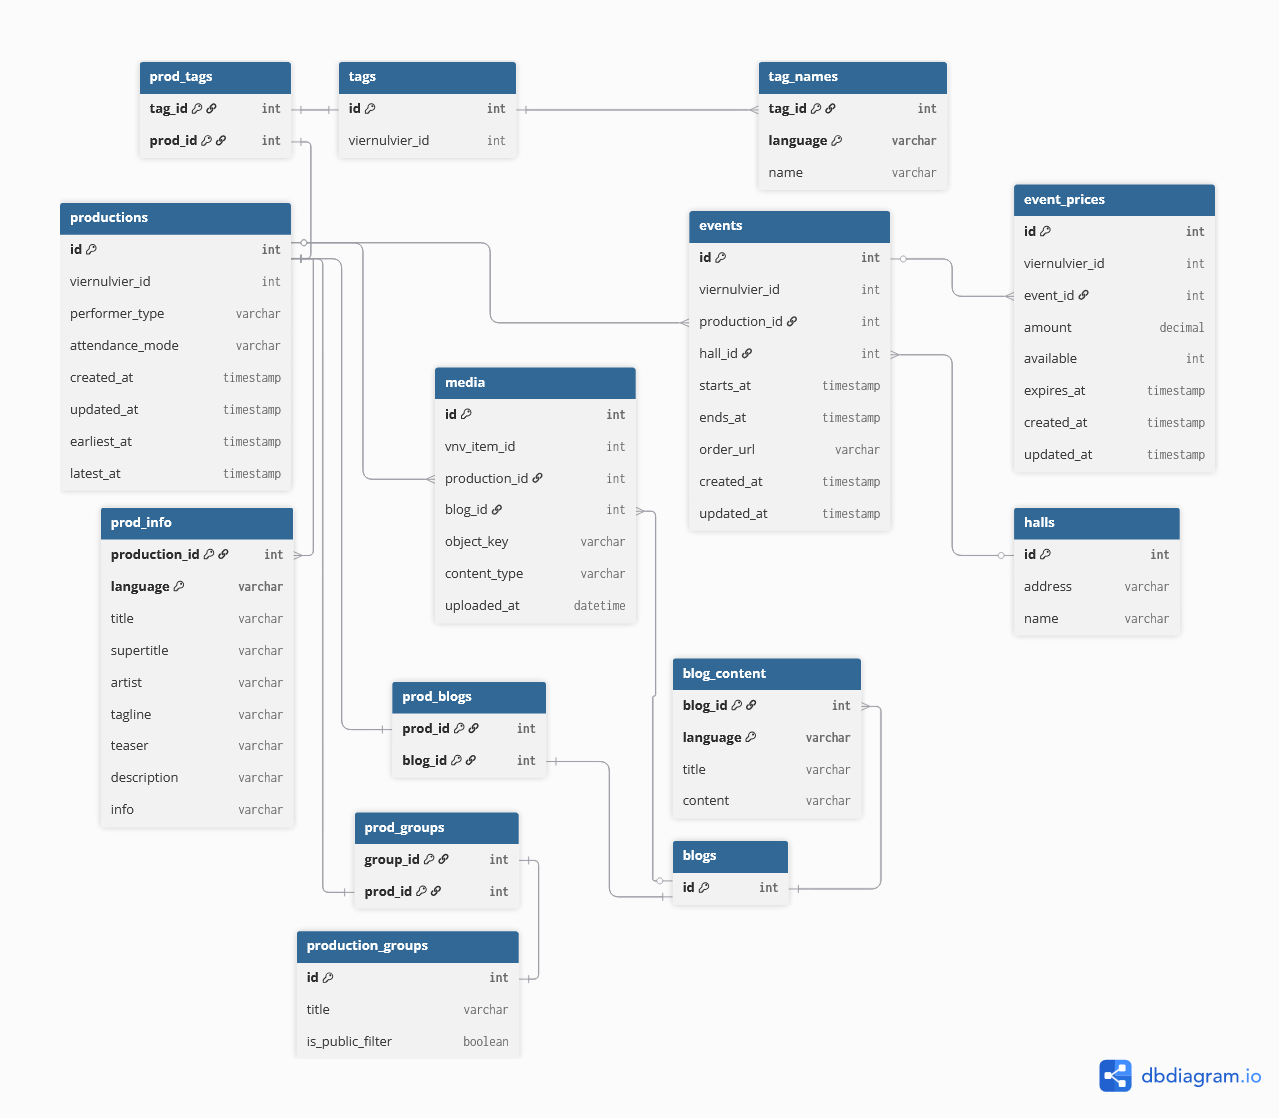
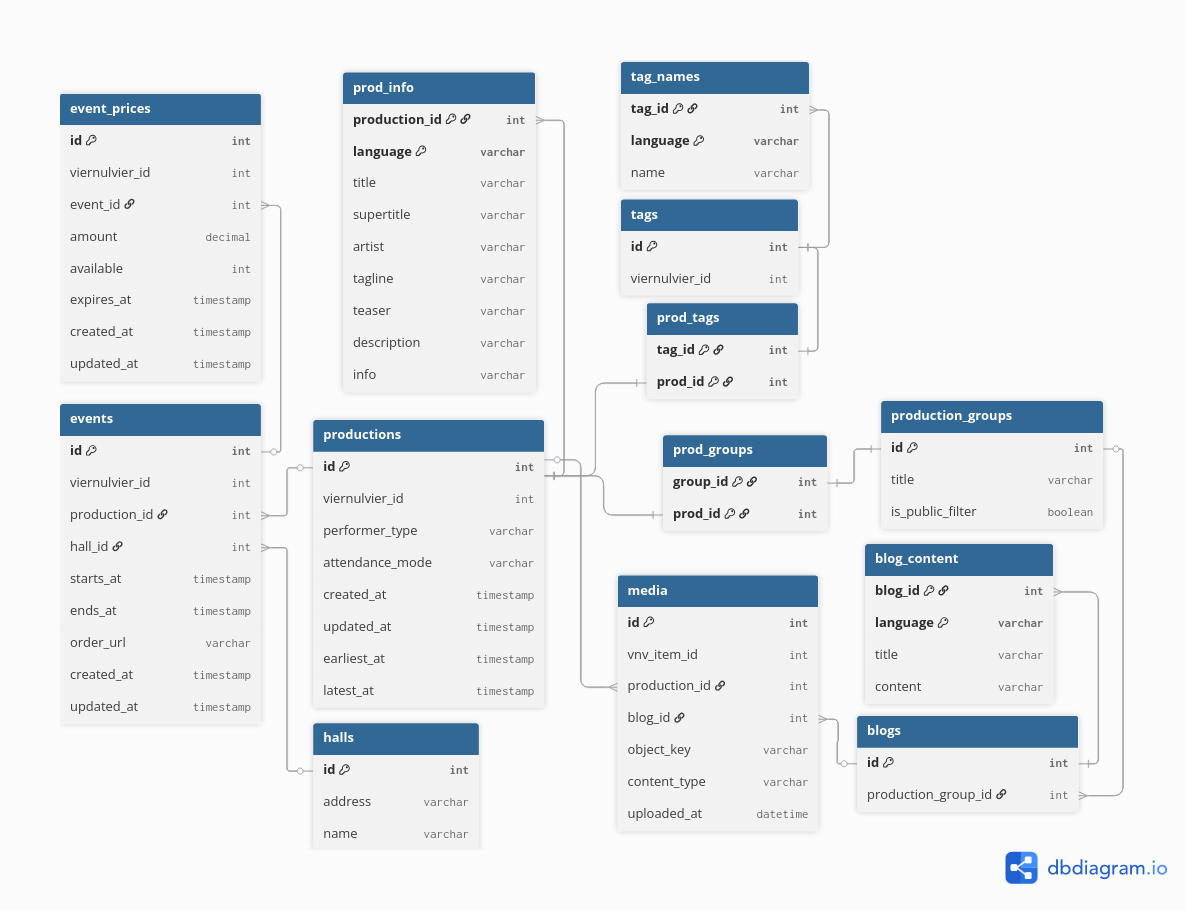
updated models

diff --git a/backend/src/models/blogs.py b/backend/src/models/blogs.py
@@ -4,21 +4,16 @@ from sqlalchemy import Column, ForeignKey, Integer, String
 from sqlalchemy.orm import relationship
 
 from src.database import Base
-from src.models.associations import prod_blogs
 
 
 class Blog(Base):
     __tablename__ = "blogs"
     id = Column(Integer, primary_key=True, autoincrement=True)
-
-    productions = relationship(
-        "Production",
-        secondary=prod_blogs,
-        back_populates="blogs",
-    )
+    production_group_id = Column(Integer, ForeignKey("production_groups.id"), nullable=True)
 
     media = relationship("Media", back_populates="blog")
     contents = relationship("BlogContent", back_populates="blog")
+    production_group = relationship("ProductionGroup", back_populates="blogs")
 
 
 class BlogContent(Base):

diff --git a/backend/src/models/associations.py b/backend/src/models/associations.py
@@ -23,13 +23,6 @@ prod_groups = Table(
     Column("prod_id", Integer, ForeignKey("productions.id"), primary_key=True),
 )
 
-prod_blogs = Table(
-    "prod_blogs",
-    Base.metadata,
-    Column("blog_id", Integer, ForeignKey("blogs.id"), primary_key=True),
-    Column("prod_id", Integer, ForeignKey("productions.id"), primary_key=True),
-)
-
 user_roles = Table(
     "user_roles",
     Base.metadata,

diff --git a/backend/src/models/production_group.py b/backend/src/models/production_group.py
@@ -25,3 +25,5 @@ class ProductionGroup(Base):
         secondary=prod_groups,
         back_populates="groups",
     )
+
+    blogs = relationship("Blog", back_populates="production_group")

diff --git a/docs/domain-model.md b/docs/domain-model.md
@@ -107,13 +107,9 @@ Table media {
   uploaded_at datetime
 }
 
-Table prod_blogs {
-  prod_id int [pk, ref: - productions.id]
-  blog_id int [pk, ref: - blogs.id]
-}
-
 Table blogs {
   id int [pk]
+  production_group_id int [ref: > production_groups.id]
 }
 
 Table blog_content {